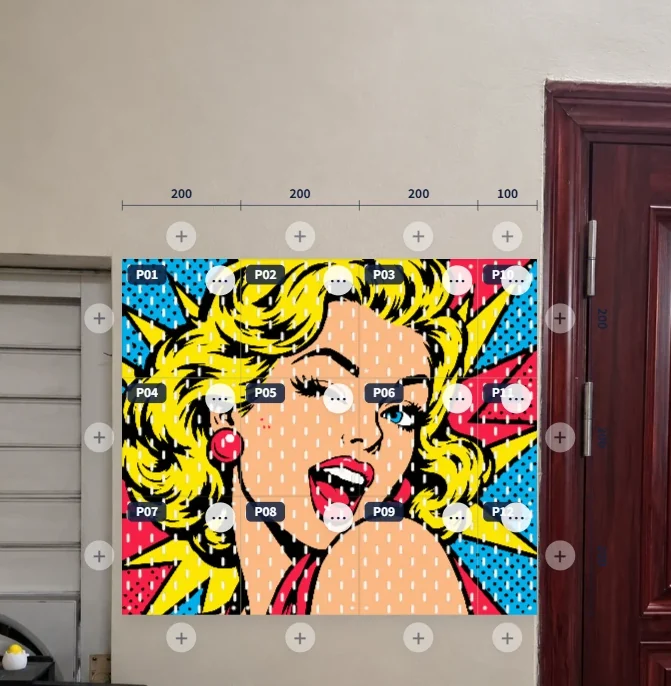
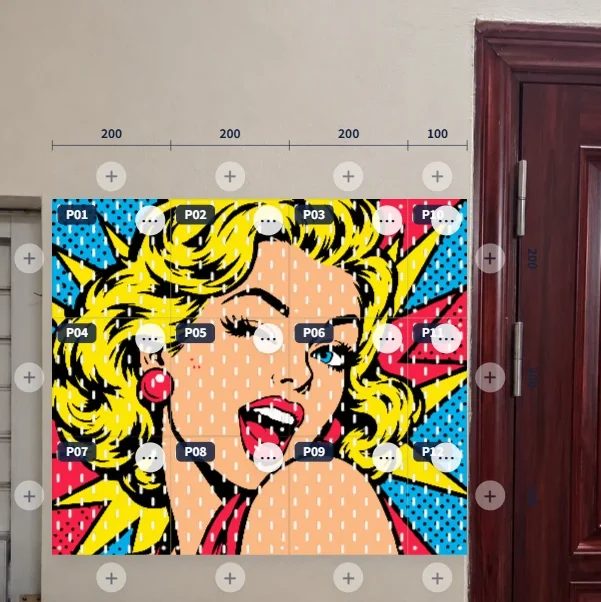
fix: crop the wall preview images to the wall, the design and the door

diff --git a/public/zh/index.html b/public/zh/index.html
@@ -218,10 +218,10 @@
           </div>
           <div class="wall-frame">
             <div role="tabpanel" id="wall-a" aria-labelledby="tab-wall-a">
-              <img src="/assets/wall-preview-pop.webp" width="671" height="686" loading="lazy" alt="編輯器畫面：普普風人像的 12 片洞洞板設計，以真實比例疊在一面白牆的照片上">
+              <img src="/assets/wall-preview-pop.webp" width="601" height="602" loading="lazy" alt="編輯器畫面：普普風人像的 12 片洞洞板設計，以真實比例疊在一面白牆的照片上">
             </div>
             <div role="tabpanel" id="wall-b" aria-labelledby="tab-wall-b" hidden>
-              <img src="/assets/wall-preview-wave.webp" width="671" height="686" loading="lazy" alt="編輯器畫面：浮世繪海浪的 12 片洞洞板設計，疊在同一面白牆的照片上">
+              <img src="/assets/wall-preview-wave.webp" width="601" height="602" loading="lazy" alt="編輯器畫面：浮世繪海浪的 12 片洞洞板設計，疊在同一面白牆的照片上">
             </div>
           </div>
           <p class="small">編輯器實際畫面 · 700 × 600 mm，12 片板</p>

diff --git a/public/en/index.html b/public/en/index.html
@@ -218,10 +218,10 @@
           </div>
           <div class="wall-frame">
             <div role="tabpanel" id="wall-a" aria-labelledby="tab-wall-a">
-              <img src="/assets/wall-preview-pop.webp" width="671" height="686" loading="lazy" alt="Editor view: a 12-panel pop-art portrait pegboard design shown at true scale over a photo of a white wall">
+              <img src="/assets/wall-preview-pop.webp" width="601" height="602" loading="lazy" alt="Editor view: a 12-panel pop-art portrait pegboard design shown at true scale over a photo of a white wall">
             </div>
             <div role="tabpanel" id="wall-b" aria-labelledby="tab-wall-b" hidden>
-              <img src="/assets/wall-preview-wave.webp" width="671" height="686" loading="lazy" alt="Editor view: a 12-panel great-wave pegboard design over the same photo of a white wall">
+              <img src="/assets/wall-preview-wave.webp" width="601" height="602" loading="lazy" alt="Editor view: a 12-panel great-wave pegboard design over the same photo of a white wall">
             </div>
           </div>
           <p class="small">From the editor · 700 × 600 mm, 12 panels</p>

diff --git a/public/index.html b/public/index.html
@@ -218,10 +218,10 @@
           </div>
           <div class="wall-frame">
             <div role="tabpanel" id="wall-a" aria-labelledby="tab-wall-a">
-              <img src="/assets/wall-preview-pop.webp" width="671" height="686" loading="lazy" alt="Editor view: a 12-panel pop-art portrait pegboard design shown at true scale over a photo of a white wall">
+              <img src="/assets/wall-preview-pop.webp" width="601" height="602" loading="lazy" alt="Editor view: a 12-panel pop-art portrait pegboard design shown at true scale over a photo of a white wall">
             </div>
             <div role="tabpanel" id="wall-b" aria-labelledby="tab-wall-b" hidden>
-              <img src="/assets/wall-preview-wave.webp" width="671" height="686" loading="lazy" alt="Editor view: a 12-panel great-wave pegboard design over the same photo of a white wall">
+              <img src="/assets/wall-preview-wave.webp" width="601" height="602" loading="lazy" alt="Editor view: a 12-panel great-wave pegboard design over the same photo of a white wall">
             </div>
           </div>
           <p class="small">From the editor · 700 × 600 mm, 12 panels</p>

diff --git a/src/page.html b/src/page.html
@@ -218,10 +218,10 @@
           </div>
           <div class="wall-frame">
             <div role="tabpanel" id="wall-a" aria-labelledby="tab-wall-a">
-              <img src="/assets/wall-preview-pop.webp" width="671" height="686" loading="lazy" alt="{{wallAltA}}">
+              <img src="/assets/wall-preview-pop.webp" width="601" height="602" loading="lazy" alt="{{wallAltA}}">
             </div>
             <div role="tabpanel" id="wall-b" aria-labelledby="tab-wall-b" hidden>
-              <img src="/assets/wall-preview-wave.webp" width="671" height="686" loading="lazy" alt="{{wallAltB}}">
+              <img src="/assets/wall-preview-wave.webp" width="601" height="602" loading="lazy" alt="{{wallAltB}}">
             </div>
           </div>
           <p class="small">{{wallCaption}}</p>
